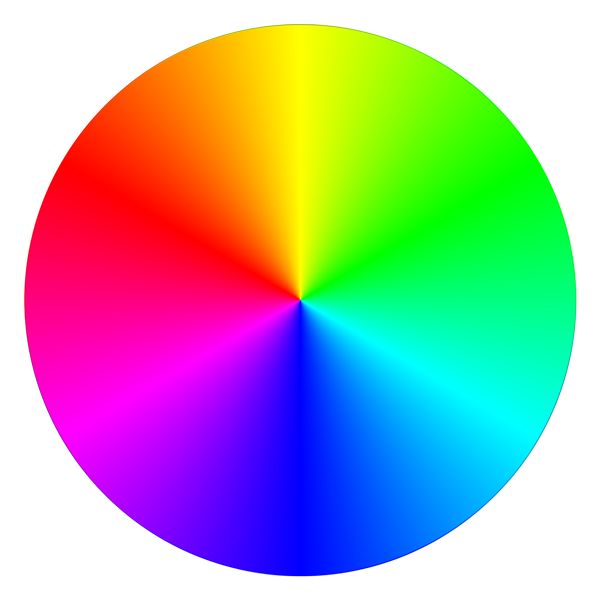
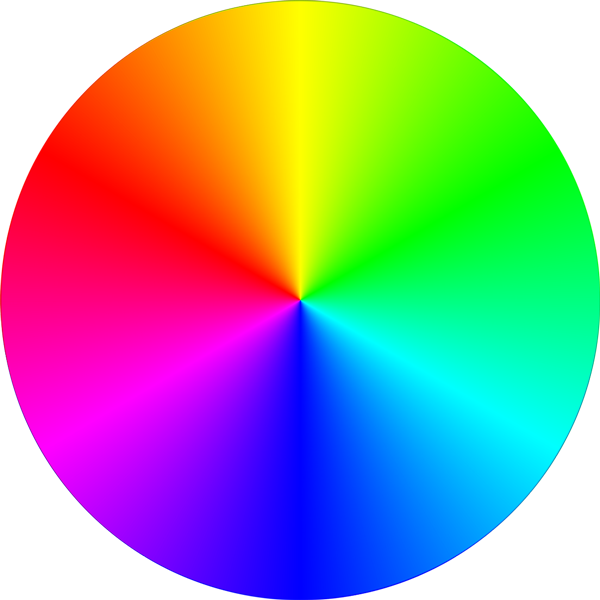
テスト中

Changed region(s): [[0.0, 0.0, 1.0, 1.0]]

diff --git a/htmltests/controller.js b/htmltests/controller.js
@@ -11,20 +11,31 @@ function init()
 
   var socket = io();
 
-  $('.color_wheel img').on('touchmove', function(event){
+  $('.color_wheel').on('touchmove', function(event){
     // event.preventDefault();
     if(!this.canvas){
       this.canvas = $('<canvas />')[0];
       this.canvas.width = this.width;
       this.canvas.height = this.height;
       this.canvas.getContext('2d').drawImage(this, 0, 0, this.width, this.height);
+      // var color_wheel = new Image();
+      // color_wheel.src = 'assets/cw_600.png';
+
+      // thiz = this;
+
+      // color_wheel.onload = function(){
+      //   thiz.canvas.getContext('2d').drawImage(color_wheel, 0, 0, thiz.width, thiz.height);
+      //   console.log('wrote image');
+      // };
     }
 
     console.log(event);
     var t = event.originalEvent.changedTouches[0];
-    var wheelShiftX = t.target.x - t.target.width/2;
-    var wheelShiftY = t.target.y - t.target.height/2;
-    var pixelData = this.canvas.getContext('2d').getImageData(t.clientX - wheelShiftX, t.clientY - wheelShiftY, 1, 1).data;
+    // var wheelShiftX = t.target.x - t.target.width/2;
+    // var wheelShiftY = t.target.y - t.target.height/2;
+    // console.log(t, wheelShiftX);
+    // var pixelData = this.canvas.getContext('2d').getImageData(t.clientX - wheelShiftX, t.clientY - wheelShiftY, 1, 1).data;
+    var pixelData = this.canvas.getContext('2d').getImageData(200, 200, 1, 1).data;
 
     $('.output').html('R: ' + pixelData[0] + '<br>G: ' + pixelData[1] + '<br>B: ' + pixelData[2] + '<br>A: ' + pixelData[3] + '<br>x: ' + t.pageX + '<br>y: ' + t.pageY);
 
@@ -33,47 +44,47 @@ function init()
     return false;
   });
 
-  $('.header').hide();
-  $('#back').on('touchend', function() {
-    $('.setup').fadeIn();
-    $('.header').fadeOut();
-  });
+$('.header').hide();
+$('#back').on('touchend', function() {
+  $('.setup').fadeIn();
+  $('.header').fadeOut();
+});
 
-  $('#backhome').submit(function(){
-    return true;
-  });
+$('#backhome').submit(function(){
+  return true;
+});
 
-  $('.bg_candidate').on('touchend', function(event){
-    var type = this.id;
-    console.log('bg change' + type);
-    socket.emit('bg change', type);
-    return false;
-  });
+$('.bg_candidate').on('touchend', function(event){
+  var type = this.id;
+  console.log('bg change' + type);
+  socket.emit('bg change', type);
+  return false;
+});
 
-  $('#newinput').submit(function(){
-    socket.emit('chat message', $('#m').val());
-    $('#m').val('');
-    return false;
-  });
+$('#newinput').submit(function(){
+  socket.emit('chat message', $('#m').val());
+  $('#m').val('');
+  return false;
+});
 
-  $('#joinlight').submit(function(){
-    $('.setup').fadeOut();
-    $('.header').fadeIn();
+$('#joinlight').submit(function(){
+  $('.setup').fadeOut();
+  $('.header').fadeIn();
 
-    var lightname = $('#l').val();
-    $('#lightname').text(lightname);
-    socket.emit('join light', {value: lightname});
-    return false;
-  });
+  var lightname = $('#l').val();
+  $('#lightname').text(lightname);
+  socket.emit('join light', {value: lightname});
+  return false;
+});
 
   // socket.on('chat message', function(msg){
   //   $('#messages').append($('<li>').text(msg));
   // });
 
-  socket.on('destroyed', function(){
-    $('#messages').append($('<li>').text('target light is destroyed'));
-    socket.emit('leave light');
-  });
+socket.on('destroyed', function(){
+  $('#messages').append($('<li>').text('target light is destroyed'));
+  socket.emit('leave light');
+});
 }
 
 $(init);

diff --git a/html/controller.html b/html/controller.html
@@ -74,15 +74,23 @@
       right: 0;
     }
     .color_wheel {
-      width: 80%;
+      width: 300px;
+      /*width: 60%;*/
+      height: 300px;
       position: absolute;
       top: 50%;
       left: 50%;
       -webkit-transform: translate(-50%, -50%);
+      background-color: white;
+      border-radius: 50%;
+      /*overflow: hidden;*/
+      background-image: url(assets/cw_600.png);
+      background-position: 50% 50%;
     }
-    .color_wheel img{
+/*    .color_wheel img{
       width: 100%;
-    }
+      border-radius: 80%;
+    }*/
 
     .setup {
       text-align: center;
@@ -174,7 +182,7 @@
   </div>
   <pre class="output"></pre>
   <div class="color_wheel">
-    <img src="assets/cw_600.png"/>
+    <!-- <img src="assets/cw_600.png"/> -->
   </div>
   <div class="setup">
     <h2>CONNECT TO OMOCHI</h2>

diff --git a/html/light.html b/html/light.html
@@ -86,9 +86,6 @@
       /*box-shadow: 2px 2px 5px rgba(0, 0, 0, 0.5);*/
     }
 
-    .setup #backhome button {
-    }
-
     #backhome button{
       position: absolute;
       left: 50%;
